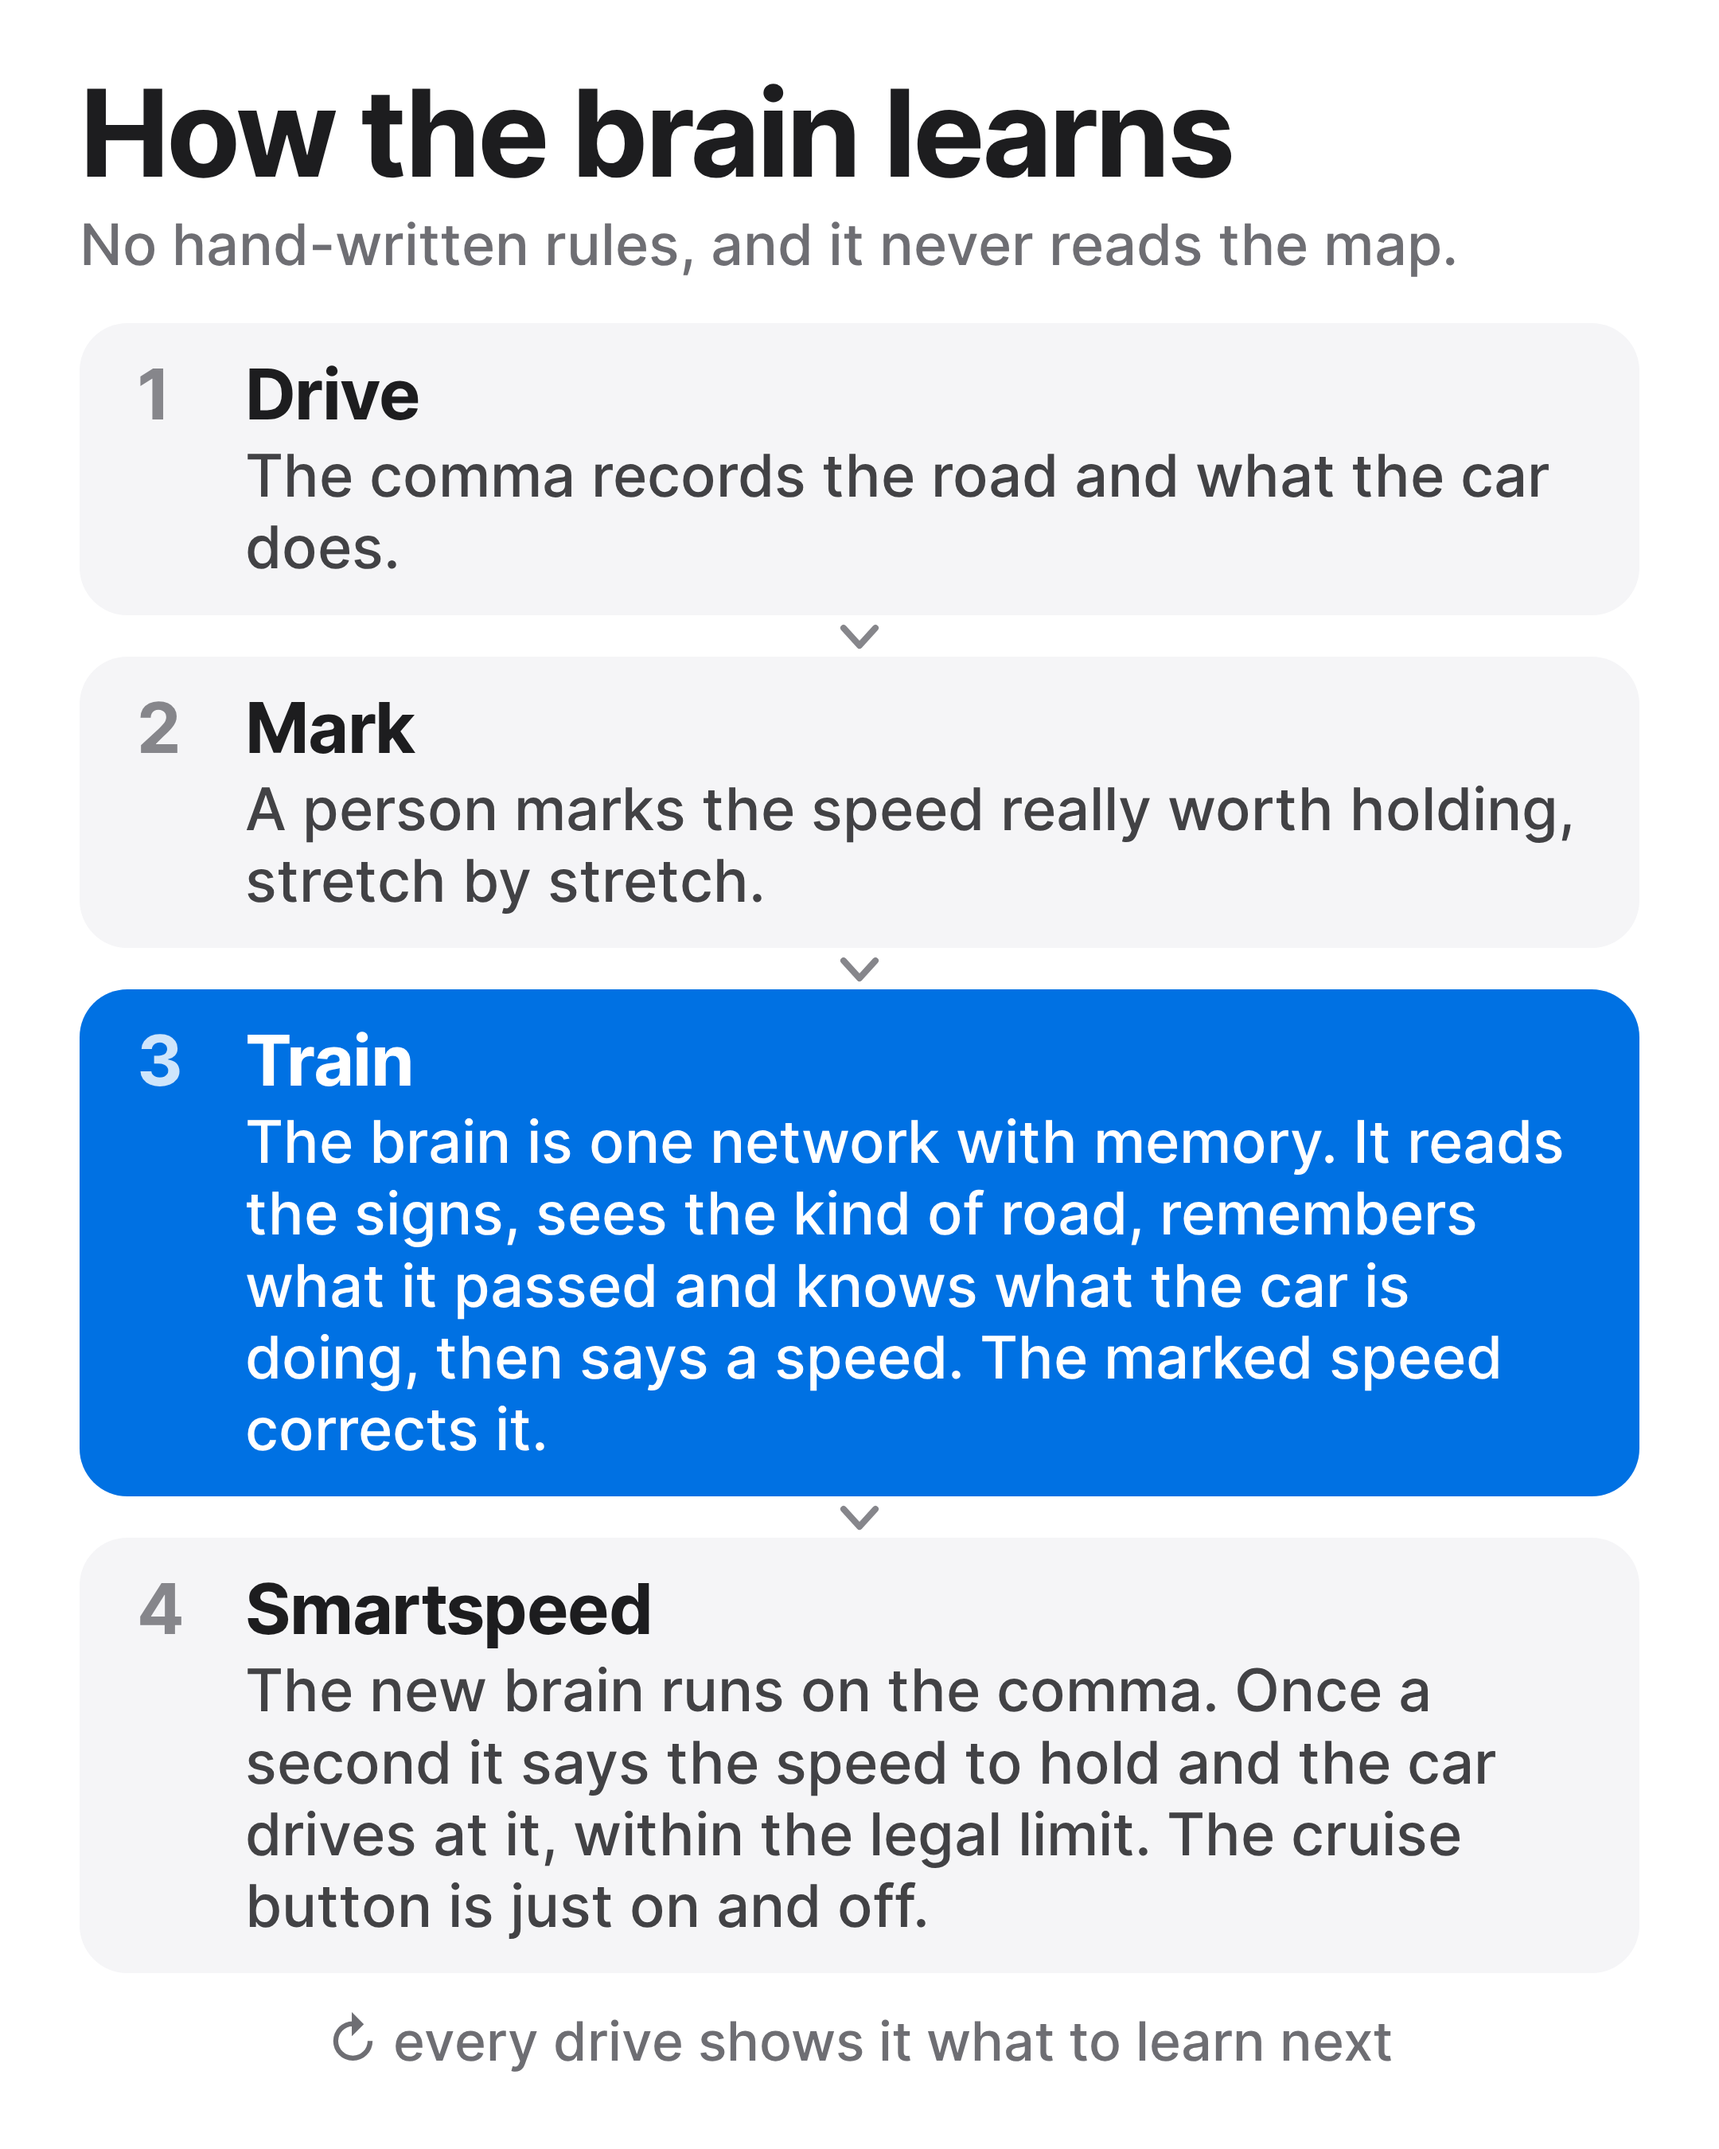
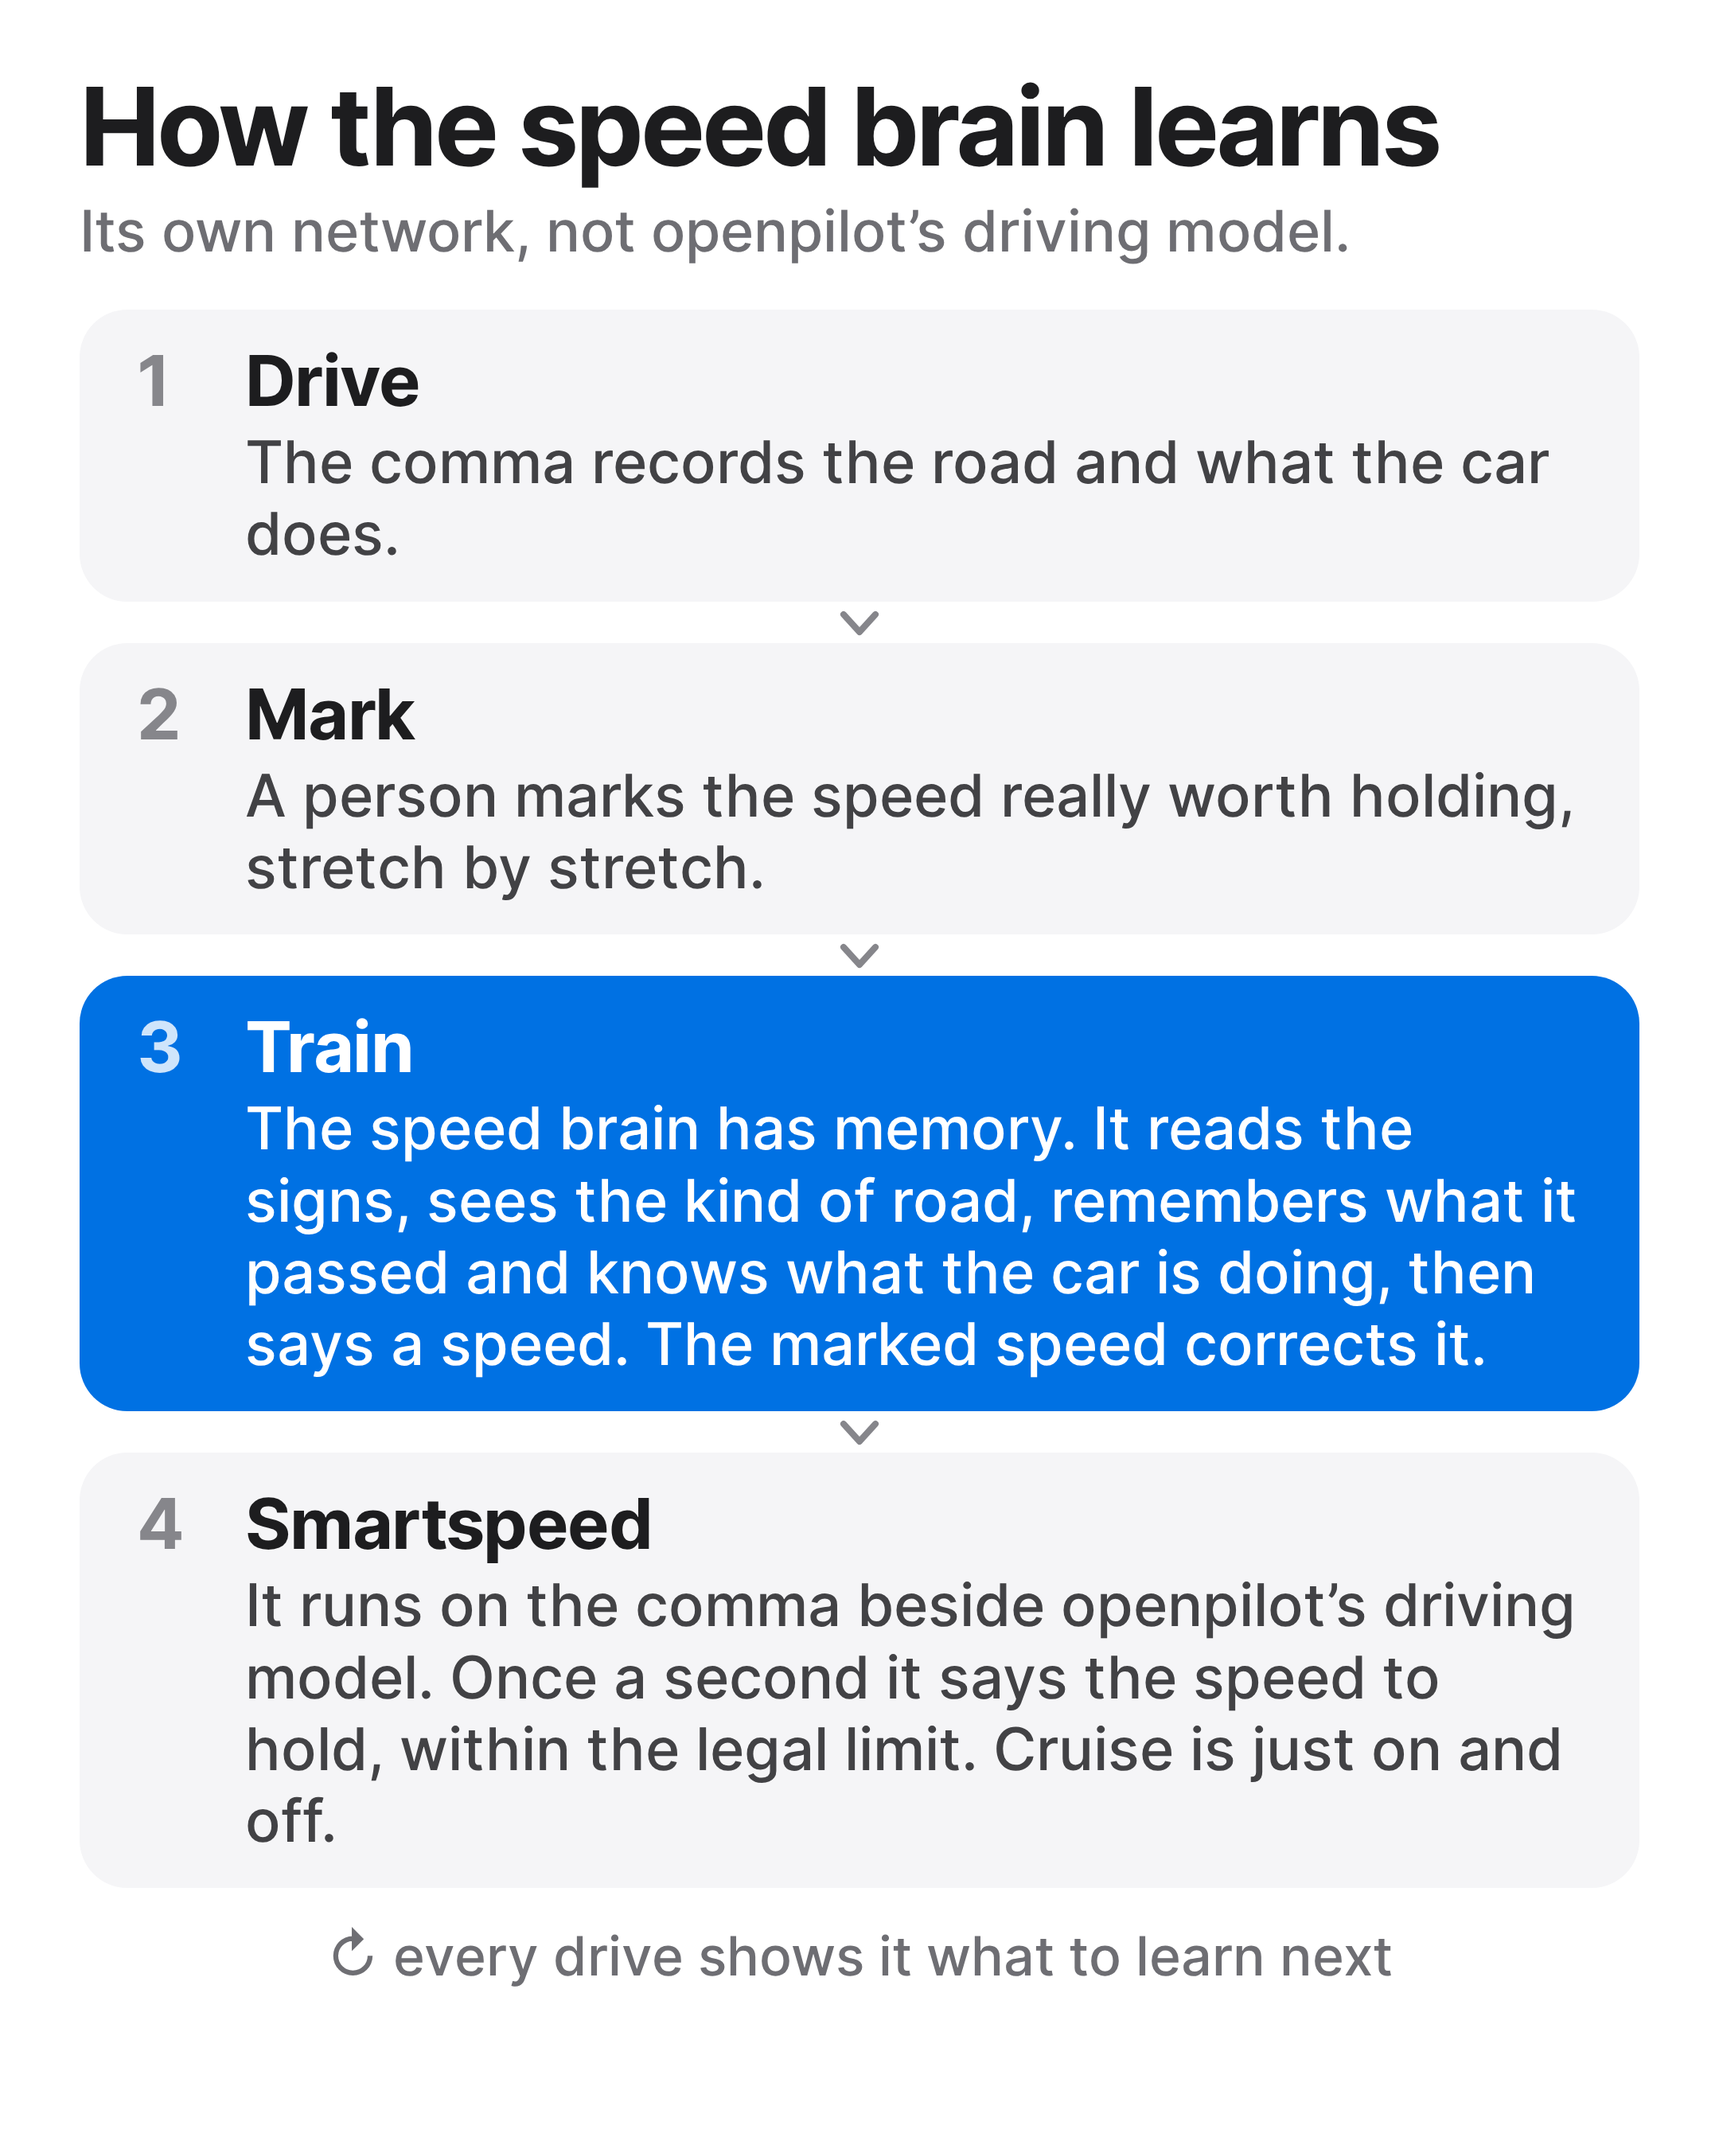
Models and Publish say what the branch has, not the car; the post image names the speed brain apart from openpilot's driving model

diff --git a/web/src/control/ModelsTab.vue b/web/src/control/ModelsTab.vue
@@ -129,14 +129,14 @@ function carLine(role: RoleModels): CarLine | null {
   if (tried) return used?.run === tried ? {tone: 'same', text: 'On the comma: this one, as a trial'}
     : {tone: 'other', text: 'On the comma: a trial of ' + tried};
   const more = 'Publish, on the Publish tab, puts it there.';
-  if (car === null) return used ? {tone: 'other', text: 'On the car: none yet', more} : {tone: 'none', text: 'On the car: none'};
+  if (car === null) return used ? {tone: 'other', text: 'In the branch: none yet', more} : {tone: 'none', text: 'In the branch: none'};
   const when = car.trained_at ? isoWhen(car.trained_at) : car.run;
-  if (used === null) return {tone: 'none', text: 'On the car: ' + car.label + ', ' + when};
+  if (used === null) return {tone: 'none', text: 'In the branch: ' + car.label + ', ' + when};
   if (car.id === used.id) return payload.value?.car_build_pending
-    ? {tone: 'other', text: 'On the car: this one, once its build is finished'} : {tone: 'same', text: 'On the car: this one'};
+    ? {tone: 'other', text: 'In the branch: this one, once its build is finished'} : {tone: 'same', text: 'In the branch: this one'};
   const age = car.trained_at && used.trained_at ? (Date.parse(car.trained_at) < Date.parse(used.trained_at) ? 'an older one' : 'a newer one')
     : 'another one';
-  return {tone: 'other', text: 'On the car: ' + age + ', ' + when, more};
+  return {tone: 'other', text: 'In the branch: ' + age + ', ' + when, more};
 }
 const carLines = computed(() => Object.fromEntries(roles.value.map((role) => [role.role, carLine(role)])) as Record<ModelRole, CarLine | null>);
 /** The published models on the car, in a few words: "speed-limits-models 62dca08, 28 Oct". */
@@ -328,7 +328,7 @@ async function choose(version: ModelVersion): Promise<void> {
       <p class="note models-foot">The numbers compare only on the same test: the older versions were measured on fewer signs (the count
         under each number). The choice is kept in <code>{{ payload.active_file }}</code> of the data root; it copies, exports and
         deploys nothing: nothing on the comma changes. Only Publish, on the Publish tab, changes what the comma
-        downloads; Try on the comma now copies a SignNet onto it until its next software update.<template v-if="carText"> On the car: the networks published in {{ carText }}.</template></p>
+        downloads; Try on the comma now copies a SignNet onto it until its next software update.<template v-if="carText"> In the branch: the networks published in {{ carText }}.</template></p>
       <p v-if="payload.on_car_problem" class="note">What is on the car cannot be shown: {{ payload.on_car_problem }}.</p>
     </section>
 

diff --git a/web/src/control/CarPublishSection.vue b/web/src/control/CarPublishSection.vue
@@ -34,8 +34,8 @@ const rows = computed(() => CAR_ROLES.map((role) => {
     : role === 'road_type' ? (inUseOf('brain') ? 'Does not go: the brain takes its place' : 'None in use: the comma reads the signs alone')
     : role === 'brain' ? 'None in use: the comma runs the rules of the signs' : 'None in use';
   const older = car !== null && used?.trained_at && car.trained_at && Date.parse(car.trained_at) < Date.parse(used.trained_at);
-  const carText = same ? 'On the car: this one' : car ? 'On the car: ' + (older ? 'an older one, ' : 'another one, ') + whenOf(car)
-    : used ? 'Not on the car yet' : 'None on the car either';
+  const carText = same ? 'In the branch: this one' : car ? 'In the branch: ' + (older ? 'an older one, ' : 'another one, ') + whenOf(car)
+    : used ? 'Not in the branch yet' : 'None in the branch either';
   const differs = !same && (used !== null || car !== null);
   return {role, label, usedText, carText, tone: same ? 'same' : differs ? 'other' : 'none', differs};
 }));

diff --git a/web/src/control/ModelItem.vue b/web/src/control/ModelItem.vue
@@ -150,7 +150,7 @@ const hourly = (value: number | null): string => value === null ? '–' : value 
       <span v-if="version.in_use || version.on_car || onTrial || !version.finished" class="model-pills">
         <span v-if="version.in_use" class="pill ok">In use</span>
         <span v-else-if="!version.finished" class="pill warn">Not finished</span>
-        <span v-if="version.on_car" class="pill car">On the car</span>
+        <span v-if="version.on_car" class="pill car">In the branch</span>
         <span v-if="onTrial" class="pill trial">Trying on the comma</span>
       </span>
     </div>
